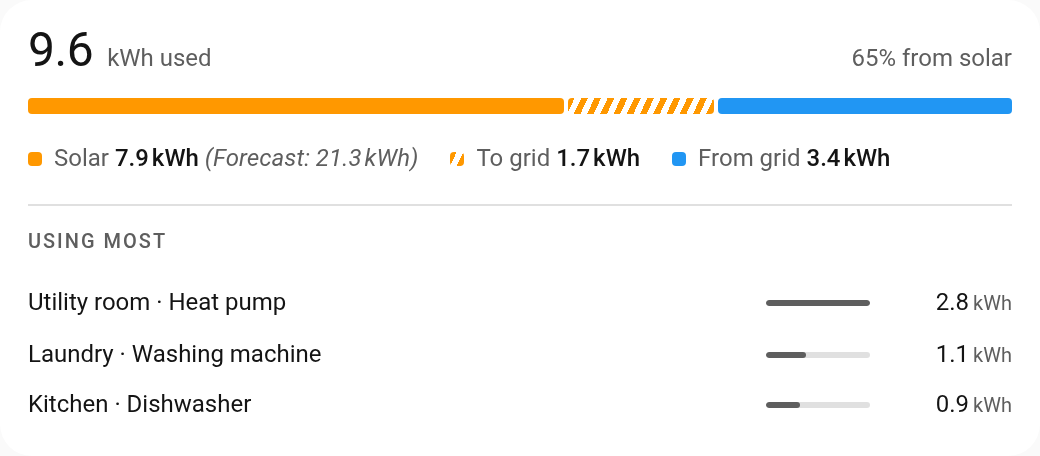
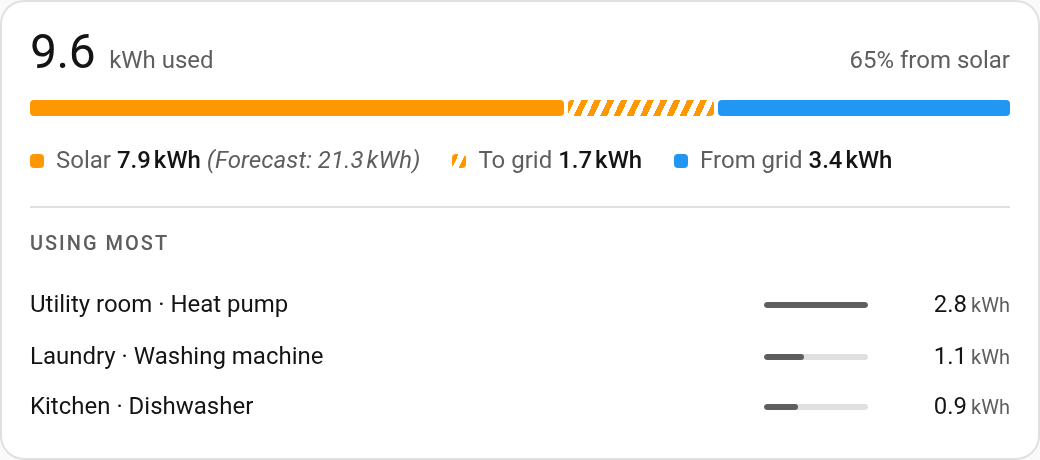
Each block is an ha-card, so the theme's border, corners and shadow apply and card-mod can find it

diff --git a/home-utility-card.js b/home-utility-card.js
@@ -788,7 +788,7 @@ class HomeUtilityCard extends HTMLElement {
     const rows = [];
 
     if (!f.ok) {
-      return `<div class="card"><div class="empty">${esc(L.no_data)}</div></div>`;
+      return `<ha-card class="card"><div class="empty">${esc(L.no_data)}</div></ha-card>`;
     }
 
     const note =
@@ -858,7 +858,7 @@ class HomeUtilityCard extends HTMLElement {
       rows.push(deviceList(devices, c.decimals));
     }
 
-    return `<div class="card">${rows.join("")}</div>`;
+    return `<ha-card class="card">${rows.join("")}</ha-card>`;
   }
 
   /* The sparkline is one element per interval - about 190 of them - and this
@@ -921,7 +921,7 @@ class HomeUtilityCard extends HTMLElement {
       rows.push(`<div class="empty">${esc(p.now === null ? L.no_price : L.no_forecast)}</div>`);
     }
 
-    return `<div class="card">${rows.join("")}</div>`;
+    return `<ha-card class="card">${rows.join("")}</ha-card>`;
   }
 
   /* Only days that begin inside the window get a label. The first day is
@@ -1082,9 +1082,10 @@ const STYLES = `
 :host { display: block; line-height: var(--ha-line-height-normal, 1.6); }
 .root { display: flex; flex-direction: column; }
 
+/* Each block is Home Assistant's own ha-card, so the background, border,
+   corners and shadow are whatever the theme says a card is - and card-mod has
+   the element it looks for. Only the inside is this card's. */
 .card {
-  background: var(--ha-card-background, var(--card-background-color));
-  border-radius: var(--ha-card-border-radius, 16px);
   padding: 13px 14px;
   display: flex; flex-direction: column; gap: 10px;
 }
